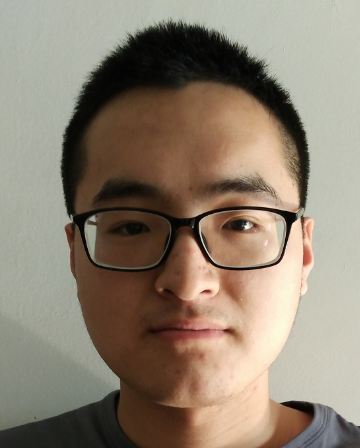
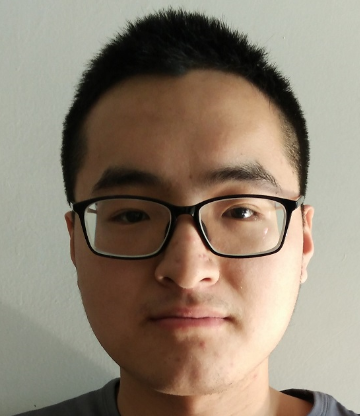
Site updated: 2024-05-10 20:10:29

diff --git a/team/index.html b/team/index.html
@@ -1,4 +1,5 @@
-<!DOCTYPE html><html lang="zh"><head><meta charset="UTF-8"><meta http-equiv="X-UA-Compatible" content="IE=edge"><meta name="viewport" content="width=device-width, initial-scale=1, maximum-scale=5"><title>Phoenix Decoder (PhD)</title><meta name="author" content="凤凰解码"><link rel="shortcut icon" href="/img/favicon.png"><link rel="stylesheet" href="/css/index.css"><link rel="stylesheet" href="https://cdn.jsdelivr.net/npm/font-awesome@latest/css/font-awesome.min.css"><meta name="generator" content="Hexo 4.2.0"></head><body><header id="page_header"><div class="header_wrap"><div id="blog_name"><a class="blog_title" id="site-name" href="/">Phoenix Decoder (PhD)</a></div><ul class="menus_items"><li class="menus_item"><a class="site-page" href="/"> Home</a></li><li class="menus_item"><a class="site-page" href="/publication/"> Selected Publiction</a></li><li class="menus_item"><a class="site-page" href="/team/"> Team</a></li><li class="menus_item"><a class="site-page" href="/misc/"> Misc</a></li></ul></div></header><main id="page_main"><div class="side-card sticky"><div class="card-wrap" itemscope itemtype="http://schema.org/Person"><div class="author-discrip"><h3>凤凰解码</h3><p class="author-bio">Phoenix Decoder (PhD)</p></div><div class="author-links"><button class="btn m-social-links">Links</button></div></div></div><div class="page" itemscope itemtype="http://schema.org/CreativeWork"><h2 class="page-title">Team</h2><article><h2 id="团队人员"><a href="#团队人员" class="headerlink" title="团队人员"></a>团队人员</h2><h3 id="现有成员"><a href="#现有成员" class="headerlink" title="现有成员"></a>现有成员</h3><p>博士研究生<br>2018级</p>
+<!DOCTYPE html><html lang="zh"><head><meta charset="UTF-8"><meta http-equiv="X-UA-Compatible" content="IE=edge"><meta name="viewport" content="width=device-width, initial-scale=1, maximum-scale=5"><title>Phoenix Decoder (PhD)</title><meta name="author" content="凤凰解码"><link rel="shortcut icon" href="/img/favicon.png"><link rel="stylesheet" href="/css/index.css"><link rel="stylesheet" href="https://cdn.jsdelivr.net/npm/font-awesome@latest/css/font-awesome.min.css"><meta name="generator" content="Hexo 4.2.0"></head><body><header id="page_header"><div class="header_wrap"><div id="blog_name"><a class="blog_title" id="site-name" href="/">Phoenix Decoder (PhD)</a></div><ul class="menus_items"><li class="menus_item"><a class="site-page" href="/"> Home</a></li><li class="menus_item"><a class="site-page" href="/publication/"> Selected Publiction</a></li><li class="menus_item"><a class="site-page" href="/team/"> Team</a></li><li class="menus_item"><a class="site-page" href="/misc/"> Misc</a></li></ul></div></header><main id="page_main"><div class="side-card sticky"><div class="card-wrap" itemscope itemtype="http://schema.org/Person"><div class="author-discrip"><h3>凤凰解码</h3><p class="author-bio">Phoenix Decoder (PhD)</p></div><div class="author-links"><button class="btn m-social-links">Links</button></div></div></div><div class="page" itemscope itemtype="http://schema.org/CreativeWork"><h2 class="page-title">Team</h2><article><h2 id="团队人员"><a href="#团队人员" class="headerlink" title="团队人员"></a>团队人员</h2><h3 id="现有成员"><a href="#现有成员" class="headerlink" title="现有成员"></a>现有成员</h3><p><strong>博士研究生</strong></p>
+<p>2018级</p>
 <div style="display: inline-block"><img src="/assets/photos/liukaizheng.jpg" style="width:200px;height:200px"/><p style="text-align: center">刘恺铮</p></div>
 
 <p>2019级</p>
@@ -7,21 +8,24 @@
 <p>2021级</p>
 <div style="display: inline-block"><img src="/assets/photos/leichongqin.jpeg" style="width:200px;height:200px;margin:5px"/><p style="text-align: center">雷重庆</p></div>
 
-<p>硕士研究生<br>2019级</p>
+<p>2022级</p>
 <div style="display: inline-block"><img src="/assets/photos/shaoxinghui.jpeg" style="width:200px;height:200px;margin:5px"/><p style="text-align: center;">邵鑫慧</p></div>
 
+<div style="display: inline-block"><img src="/assets/photos/zhangqiguang.jpg" style="width:200px;height:200px;margin:5px"/><p style="text-align: center">张启光</p></div>
+
+<p>2023级</p>
+<div style="display: inline-block"><img src="/assets/photos/wanghongze.jpg" style="width:200px;height:200px;margin:5px"/><p style="text-align: center">王洪泽</p></div>
+
+<div style="display: inline-block"><img src="/assets/photos/panyumingzhi.jpg" style="width:200px;height:200px;margin:5px"/> <p style="text-align: center">潘钰明志</p></div>
+
+<div style="display: inline-block"><img src="/assets/photos/songyixin.jpg" style="width:200px;height:200px;margin:5px"/> <p style="text-align: center">宋一鑫</p></div>
+
+<p>2024级</p>
+<div style="display: inline-block"><img src="/assets/photos/wangrong.jpg" style="width:200px;height:200px;margin:5px"/> <p style="text-align: center">王榕</p></div>
+
+<p><strong>硕士研究生</strong></p>
 <p>2020级</p>
-<div style="display: inline-block"><img src="/assets/photos/liuruizhao.jpg" style="width:200px;height:200px;margin:5px"/><p style="text-align: center;">刘睿钊</p></div>
-
-<div style="display: inline-block"><img src="/assets/photos/wangfan.jpg" style="width:200px;height:200px;margin:5px"/><p style="text-align: center;">王帆</p></div>
-
-<div style="display: inline-block"><img src="/assets/photos/fanqunqun.jpg" style="width:200px;height:200px;margin:5px"/><p style="text-align: center;">范群群</p></div>
-
-<div style="display: inline-block"><img src="/assets/photos/xiaogui.jpg" style="width:200px;height:200px;margin:5px"/><p style="text-align: center;">肖桂</p></div>
-
 <div style="display: inline-block"><img src="/assets/photos/qihaoyue.jpg" style="width:200px;height:200px;margin:5px"/><p style="text-align: center;">祁浩月</p></div>
-
-<div style="display: inline-block"><img src="/assets/photos/xurong.jpg" style="width:200px;height:200px;margin:5px"/><p style="text-align: center;">徐荣</p></div>
 
 <p>2021级</p>
 <div style="display: inline-block"><img src="/assets/photos/yangyan.jpeg" style="width:200px;height:200px;margin:5px"/> <p style="text-align: center">杨彦</p></div>
@@ -40,41 +44,77 @@
 
 <div style="display: inline-block"><img src="/assets/photos/jiangyue.jpg" style="width:200px;height:200px;margin:5px"/> <p style="text-align: center">姜悦</p></div> 
 
-<p>本科生</p>
-<p>2018级</p>
-<div style="display: inline-block"><img src="/assets/photos/niuyiwei.jpeg" style="width:200px;height:200px;margin:5px"/><p style="text-align: center">牛熠玮</p></div>
-<div style="display: inline-block"><img src="/assets/photos/liyongxin.jpeg" style="width:200px;height:200px;margin:5px"/><p style="text-align: center">李咏新</p></div> 
-
-<div style="display: inline-block"><img src="/assets/photos/zhanglishan.jpg" style="width:200px;height:200px;margin:5px"/><p style="text-align: center">张力山</p></div> 
-
-<div style="display: inline-block"><img src="/assets/photos/zhaoyuanjie.jpg" style="width:200px;height:200px;margin:5px"/><p style="text-align: center">赵苑杰</p></div> 
-
-<div style="display: inline-block"><img src="/assets/photos/zhangweichao.jpg" style="width:200px;height:200px;margin:5px"/><p style="text-align: center">张炜超</p></div> 
-
+<p>2022级</p>
 <div style="display: inline-block"><img src="/assets/photos/weiyumeng.jpg" style="width:200px;height:200px;margin:5px"/><p style="text-align: center">魏宇萌</p></div> 
 
-<div style="display: inline-block"><img src="/assets/photos/wangshiyu.jpg" style="width:200px;height:200px;margin:5px"/><p style="text-align: center">王世宇</p></div> 
+<div style="display: inline-block"><img src="/assets/photos/chenyu.jpg" style="width:200px;height:200px;margin:5px"/><p style="text-align: center">陈煜</p></div> 
 
-<div style="display: inline-block"><img src="/assets/photos/zhaisiyu.jpg" style="width:200px;height:200px;margin:5px"/><p style="text-align: center">翟思宇</p></div> 
+<div style="display: inline-block"><img src="/assets/photos/jiangyu.jpg" style="width:200px;height:200px;margin:5px"/><p style="text-align: center">江煜</p></div> 
 
-<div style="display: inline-block"><img src="/assets/photos/matianxing.jpg" style="width:200px;height:200px;margin:5px"/><p style="text-align: center">马天行</p></div> 
+<div style="display: inline-block"><img src="/assets/photos/yujiamin.jpg" style="width:200px;height:200px;margin:5px"/><p style="text-align: center">于佳民</p></div> 
 
-<div style="display: inline-block"><img src="/assets/photos/guoxinran.jpg" style="width:200px;height:200px;margin:5px"/><p style="text-align: center">郭欣然</p></div> 
+<div style="display: inline-block"><img src="/assets/photos/zhoujiayang.jpg" style="width:200px;height:200px;margin:5px"/><p style="text-align: center">周佳洋</p></div> 
 
-<p>2019级</p>
-<div style="display: inline-block"><img src="/assets/photos/guyan.jpg" style="width:200px;height:200px;margin:5px"/><p style="text-align: center">顾琰</p></div> 
+<div style="display: inline-block"><img src="/assets/photos/tangyuping.jpg" style="width:200px;height:200px;margin:5px"/><p style="text-align: center">汤喻平</p></div> 
+
+<div style="display: inline-block"><img src="/assets/photos/xujinwei.jpg" style="width:200px;height:200px;margin:5px"/><p style="text-align: center">许金维</p></div> 
+
+<p>2023级</p>
+<div style="display: inline-block"><img src="/assets/photos/yanghan.jpg" style="width:200px;height:200px;margin:5px"/><p style="text-align: center">杨涵</p></div> 
+
+<div style="display: inline-block"><img src="/assets/photos/chenmingyu.jpg" style="width:200px;height:200px;margin:5px"/><p style="text-align: center">陈明宇</p></div> 
+
+<div style="display: inline-block"><img src="/assets/photos/duhongliang.jpg" style="width:200px;height:200px;margin:5px"/><p style="text-align: center">杜鸿亮</p></div> 
+
+<div style="display: inline-block"><img src="https://photo.xanderc.top" style="width:200px;height:200px;margin:5px"/><p style="text-align: center">陈炫栋</p></div> 
 
 <div style="display: inline-block"><img src="/assets/photos/zhangjingyi.jpg" style="width:200px;height:200px;margin:5px"/><p style="text-align: center">张靖怡</p></div> 
 
-<h3 id="毕业成员"><a href="#毕业成员" class="headerlink" title="毕业成员"></a>毕业成员</h3><p>硕士<br>2016级</p>
+<div style="display: inline-block"><img src="/assets/photos/xuwenqi.jpg" style="width:200px;height:200px;margin:5px"/><p style="text-align: center">许文琪</p></div> 
+
+<div style="display: inline-block"><img src="/assets/photos/liutao.jpg" style="width:200px;height:200px;margin:5px"/><p style="text-align: center">刘涛</p></div> 
+
+<div style="display: inline-block"><img src="/assets/photos/cuiminghao.jpg" style="width:200px;height:200px;margin:5px"/><p style="text-align: center">崔铭浩</p></div> 
+
+<div style="display: inline-block"><img src="/assets/photos/caixuan.jpg" style="width:200px;height:200px;margin:5px"/><p style="text-align: center">蔡轩</p></div> 
+
+<div style="display: inline-block"><img src="/assets/photos/tanyuanzian.jpg" style="width:200px;height:200px;margin:5px"/><p style="text-align: center">谭袁子安</p></div> 
+
+<p><strong>本科生</strong></p>
+<p>2020级</p>
+<div style="display: inline-block"><img src="/assets/photos/liuhaonan.jpg" style="width:200px;height:200px;margin:5px"/><p style="text-align: center">刘浩楠</p></div> 
+
+<div style="display: inline-block"><img src="/assets/photos/maozhonghao.jpg" style="width:200px;height:200px;margin:5px"/><p style="text-align: center">毛忠昊</p></div> 
+
+<div style="display: inline-block"><img src="/assets/photos/lijin.jpg" style="width:200px;height:200px;margin:5px"/><p style="text-align: center">李进</p></div> 
+
+<div style="display: inline-block"><img src="/assets/photos/jinyingzhe.jpg" style="width:200px;height:200px;margin:5px"/><p style="text-align: center">金英哲</p></div> 
+
+<div style="display: inline-block"><img src="/assets/photos/qinshuaiyu.jpg" style="width:200px;height:200px;margin:5px"/><p style="text-align: center">秦帅宇</p></div> 
+
+<div style="display: inline-block"><img src="/assets/photos/renzilu.jpg" style="width:200px;height:200px;margin:5px"/><p style="text-align: center">任梓露</p></div> 
+
+<h3 id="毕业成员"><a href="#毕业成员" class="headerlink" title="毕业成员"></a>毕业成员</h3><p><strong>硕士</strong><br>2016级</p>
 <div style="display: inline-block"><img src="/assets/photos/xuyiling.jpeg" style="width:200px;height:200px"/><p style="text-align: center">徐依凌（现在阿里巴巴工作）</p></div> 
 
 <p>2018级</p>
 <div style="display: inline-block"><img src="/assets/photos/jiakang.png" style="width:200px;height:200px"/><p style="text-align: center">贾康（现在快手工作）</p></div>
 
+<p>2019级</p>
+<div style="display: inline-block"><img src="/assets/photos/shaoxinghui.jpeg" style="width:200px;height:200px;margin:5px"/><p style="text-align: center;">邵鑫慧</p></div>
 
+<p>2020级</p>
+<div style="display: inline-block"><img src="/assets/photos/liuruizhao.jpg" style="width:200px;height:200px;margin:5px"/><p style="text-align: center;">刘睿钊</p></div>
 
-<p>本科生<br>2013级</p>
+<div style="display: inline-block"><img src="/assets/photos/wangfan.jpg" style="width:200px;height:200px;margin:5px"/><p style="text-align: center;">王帆</p></div>
+
+<div style="display: inline-block"><img src="/assets/photos/fanqunqun.jpg" style="width:200px;height:200px;margin:5px"/><p style="text-align: center;">范群群</p></div>
+
+<div style="display: inline-block"><img src="/assets/photos/xiaogui.jpg" style="width:200px;height:200px;margin:5px"/><p style="text-align: center;">肖桂</p></div>
+
+<div style="display: inline-block"><img src="/assets/photos/xurong.jpg" style="width:200px;height:200px;margin:5px"/><p style="text-align: center;">徐荣</p></div>
+
+<p><strong>本科生</strong><br>2013级</p>
 <div style="display: inline-block"><img src="/assets/photos/liukaizheng.jpg" style="width:200px;height:200px"/><p style="text-align: center">刘恺铮</p></div>
 
 <p>2014级</p>
@@ -107,4 +147,29 @@
 
 <div style="display: inline-block"><img src="/assets/photos/lihaobo.jpg" style="width:200px;height:200px;margin:5px"/> <p style="text-align: center">李昊博</p></div>
 
-<div style="display: inline-block"><img src="/assets/photos/lina.jpg" style="width:200px;height:200px;margin:5px"/> <p style="text-align: center">李娜</p></div></article></div></main><div class="nav-wrap"><div class="nav"><button class="site-nav"><div class="navicon"></div></button><ul class="nav_items"><li class="nav_item"><a class="nav-page" href="/"> Home</a></li><li class="nav_item"><a class="nav-page" href="/publication/"> Selected Publiction</a></li><li class="nav_item"><a class="nav-page" href="/team/"> Team</a></li><li class="nav_item"><a class="nav-page" href="/misc/"> Misc</a></li></ul></div><div class="cd-top"><i class="fa fa-arrow-up" aria-hidden="true"></i></div></div><footer id="page_footer"><div class="footer_wrap"><div class="copyright">&copy;2020 - 2024 by 凤凰解码</div><div class="theme-info">Powered by <a href="https://hexo.io" target="_blank" rel="nofollow noopener">Hexo</a> & <a href="https://github.com/PhosphorW/hexo-theme-academia" target="_blank" rel="nofollow noopener">Academia Theme</a></div></div></footer><script src="https://cdn.jsdelivr.net/npm/jquery@latest/dist/jquery.min.js"></script><script src="/js/main.js"></script></body></html>
+<div style="display: inline-block"><img src="/assets/photos/lina.jpg" style="width:200px;height:200px;margin:5px"/> <p style="text-align: center">李娜</p></div>
+
+<p>2018级</p>
+<div style="display: inline-block"><img src="/assets/photos/niuyiwei.jpeg" style="width:200px;height:200px;margin:5px"/><p style="text-align: center">牛熠玮</p></div>
+<div style="display: inline-block"><img src="/assets/photos/liyongxin.jpeg" style="width:200px;height:200px;margin:5px"/><p style="text-align: center">李咏新</p></div> 
+
+<div style="display: inline-block"><img src="/assets/photos/zhanglishan.jpg" style="width:200px;height:200px;margin:5px"/><p style="text-align: center">张力山</p></div> 
+
+<div style="display: inline-block"><img src="/assets/photos/zhaoyuanjie.jpg" style="width:200px;height:200px;margin:5px"/><p style="text-align: center">赵苑杰</p></div> 
+
+<div style="display: inline-block"><img src="/assets/photos/zhangweichao.jpg" style="width:200px;height:200px;margin:5px"/><p style="text-align: center">张炜超</p></div> 
+
+<div style="display: inline-block"><img src="/assets/photos/weiyumeng.jpg" style="width:200px;height:200px;margin:5px"/><p style="text-align: center">魏宇萌</p></div> 
+
+<div style="display: inline-block"><img src="/assets/photos/wangshiyu.jpg" style="width:200px;height:200px;margin:5px"/><p style="text-align: center">王世宇</p></div> 
+
+<div style="display: inline-block"><img src="/assets/photos/zhaisiyu.jpg" style="width:200px;height:200px;margin:5px"/><p style="text-align: center">翟思宇</p></div> 
+
+<div style="display: inline-block"><img src="/assets/photos/matianxing.jpg" style="width:200px;height:200px;margin:5px"/><p style="text-align: center">马天行</p></div> 
+
+<div style="display: inline-block"><img src="/assets/photos/guoxinran.jpg" style="width:200px;height:200px;margin:5px"/><p style="text-align: center">郭欣然</p></div> 
+
+<p>2019级</p>
+<div style="display: inline-block"><img src="/assets/photos/guyan.jpg" style="width:200px;height:200px;margin:5px"/><p style="text-align: center">顾琰</p></div> 
+
+<div style="display: inline-block"><img src="/assets/photos/zhangjingyi.jpg" style="width:200px;height:200px;margin:5px"/><p style="text-align: center">张靖怡</p></div> </article></div></main><div class="nav-wrap"><div class="nav"><button class="site-nav"><div class="navicon"></div></button><ul class="nav_items"><li class="nav_item"><a class="nav-page" href="/"> Home</a></li><li class="nav_item"><a class="nav-page" href="/publication/"> Selected Publiction</a></li><li class="nav_item"><a class="nav-page" href="/team/"> Team</a></li><li class="nav_item"><a class="nav-page" href="/misc/"> Misc</a></li></ul></div><div class="cd-top"><i class="fa fa-arrow-up" aria-hidden="true"></i></div></div><footer id="page_footer"><div class="footer_wrap"><div class="copyright">&copy;2020 - 2024 by 凤凰解码</div><div class="theme-info">Powered by <a href="https://hexo.io" target="_blank" rel="nofollow noopener">Hexo</a> & <a href="https://github.com/PhosphorW/hexo-theme-academia" target="_blank" rel="nofollow noopener">Academia Theme</a></div></div></footer><script src="https://cdn.jsdelivr.net/npm/jquery@latest/dist/jquery.min.js"></script><script src="/js/main.js"></script></body></html>
